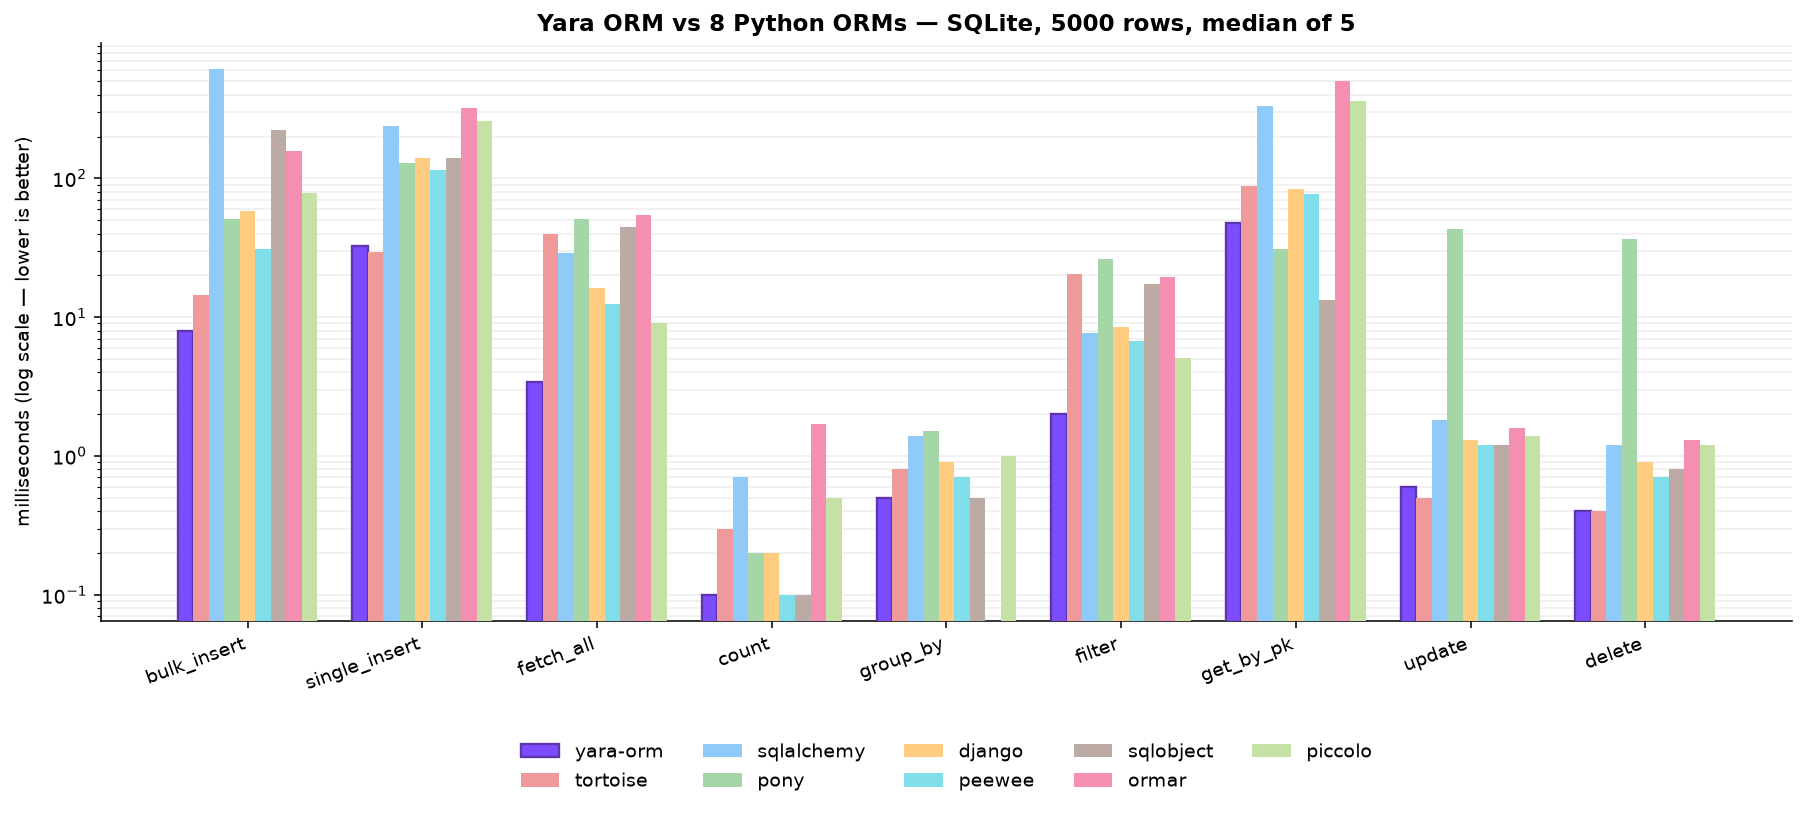
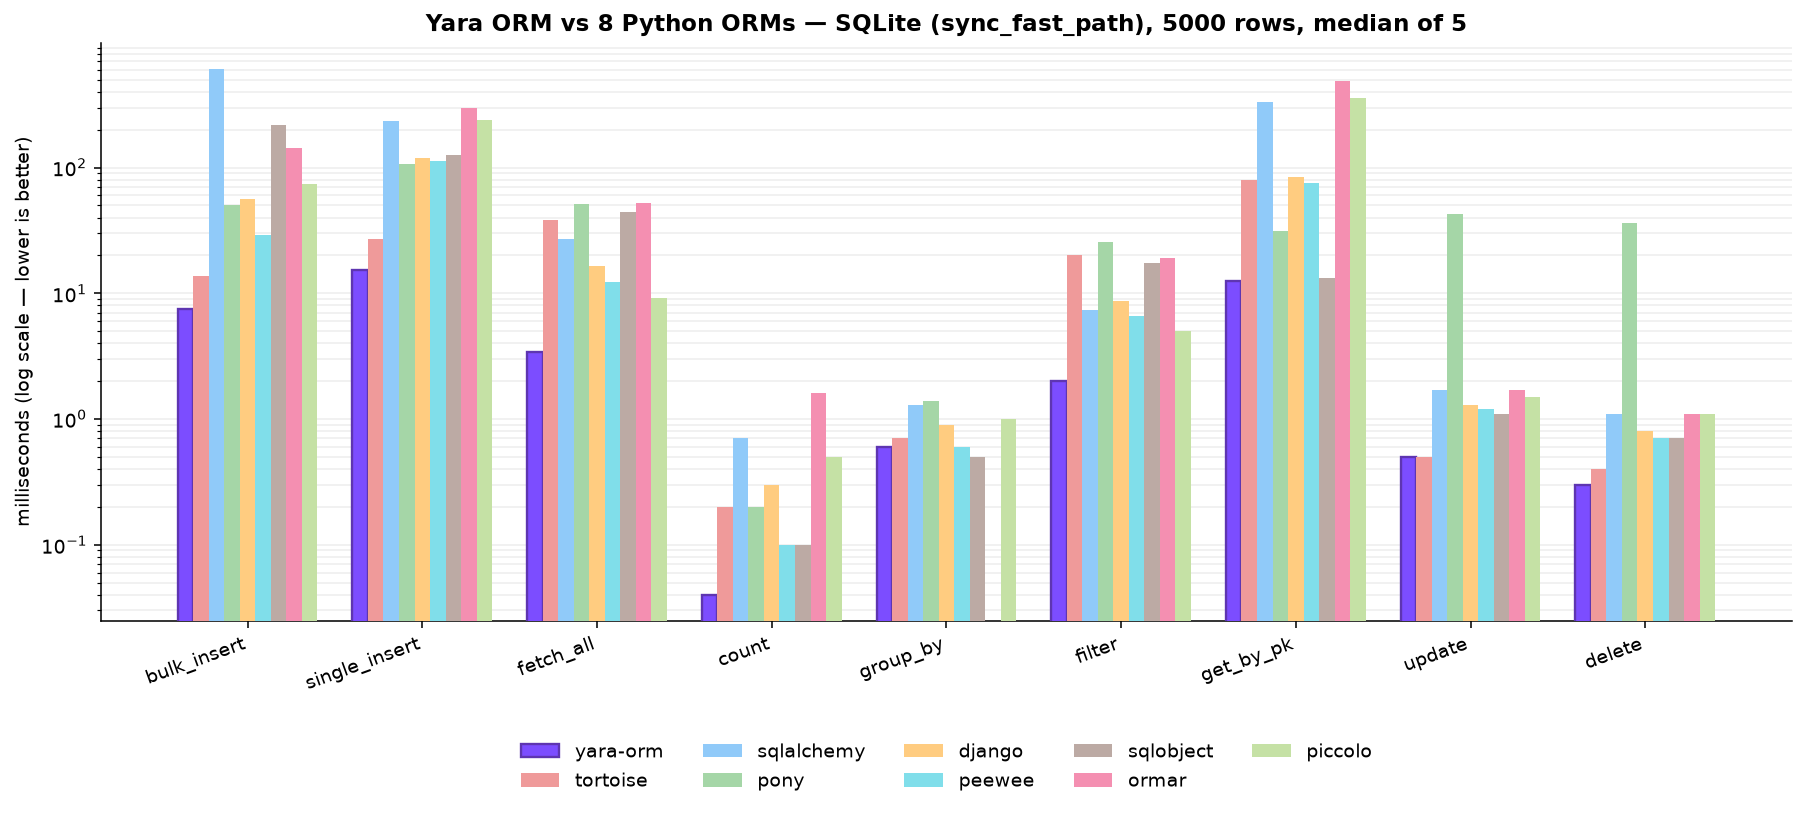
benchmarks: use SQLite sync_fast_path; refresh SQLite/MariaDB numbers and plots
- bench.py: run the SQLite suite with `?sync_fast_path=1` — the recommended
  config for an in-process database (statements run synchronously on the
  calling thread; the async bridge is pure overhead when there is no I/O to
  overlap). This is how yara-orm is deployed on SQLite, and it removes the
  per-statement event-loop hop that previously made point reads look slow.
- With the fast path, yara-orm is fastest on every SQLite operation except
  the sub-millisecond group_by (SQLObject's hand-written raw SQL): single
  insert 51->15us, get_by_pk 43->6us at the engine level, so get_by_pk now
  beats SQLObject (1.1x) and Pony (2.5x) instead of trailing.
- Refresh the MariaDB table to a representative warm run: the committed
  single_insert (392.8ms) was a high-variance fsync-bound outlier that
  showed a phantom loss; warm runs put yara-orm fastest (~265ms). Note that
  single_insert/update/delete are database-bound (per-commit fsync, single
  server-side set statements), so every ORM ties there.
- Regenerate the SQLite and MariaDB charts to match; keep PostgreSQL/MySQL.

diff --git a/benchmarks/plot_benchmarks.py b/benchmarks/plot_benchmarks.py
@@ -75,28 +75,28 @@ BACKENDS: dict[str, tuple[str, dict[str, list[float]]]] = {
     "mariadb": (
         "Yara ORM vs 7 Python ORMs — MariaDB 11, 5000 rows, median of 5",
         {
-            "yara-orm": [30.5, 392.8, 5.5, 0.5, 1.3, 3.2, 123.3, 3.8, 3.2],
-            "tortoise": [41.5, 304.8, 34.0, 0.8, 1.3, 17.8, 228.7, 3.3, 3.2],
-            "sqlalchemy": [99.0, 430.8, 42.5, 1.2, 2.1, 16.0, 534.1, 6.5, 3.3],
-            "pony": [455.0, 329.6, 47.9, 0.7, 2.2, 24.5, 310.7, 265.9, 249.9],
-            "django": [87.7, 343.6, 28.4, 0.7, 1.5, 15.5, 214.5, 4.3, 3.3],
-            "peewee": [59.5, 367.3, 30.4, 0.8, 1.1, 14.7, 206.0, 4.3, 3.0],
-            "sqlobject": [1257.2, 359.8, 44.9, 0.7, 0.9, 16.9, 66.0, 4.2, 2.9],
-            "ormar": [191.2, 555.3, 72.8, 4.7, NA, 31.9, 916.1, 7.6, 3.6],
+            "yara-orm": [23.3, 264.9, 5.7, 0.5, 1.2, 3.2, 132.9, 4.0, 3.0],
+            "tortoise": [37.5, 311.6, 35.0, 0.8, 1.3, 17.5, 240.8, 4.4, 3.0],
+            "sqlalchemy": [105.4, 531.7, 43.8, 1.2, 2.3, 16.3, 575.0, 7.8, 3.6],
+            "pony": [475.4, 391.5, 48.1, 0.7, 2.2, 24.8, 306.7, 266.3, 249.5],
+            "django": [96.4, 388.2, 28.1, 0.7, 1.5, 15.1, 220.7, 5.4, 3.6],
+            "peewee": [71.8, 372.2, 37.0, 0.8, 1.4, 14.7, 206.5, 4.2, 3.0],
+            "sqlobject": [1266.5, 390.3, 42.6, 0.6, 0.9, 17.1, 64.4, 3.7, 3.0],
+            "ormar": [209.9, 660.0, 72.1, 6.7, NA, 32.6, 895.2, 8.2, 4.0],
         },
     ),
     "sqlite": (
-        "Yara ORM vs 8 Python ORMs — SQLite, 5000 rows, median of 5",
+        "Yara ORM vs 8 Python ORMs — SQLite (sync_fast_path), 5000 rows, median of 5",
         {
-            "yara-orm": [7.9, 32.6, 3.4, 0.1, 0.5, 2.0, 47.4, 0.6, 0.4],
-            "tortoise": [14.4, 29.3, 39.7, 0.3, 0.8, 20.5, 87.5, 0.5, 0.4],
-            "sqlalchemy": [612.7, 240.0, 28.8, 0.7, 1.4, 7.7, 330.9, 1.8, 1.2],
-            "pony": [51.0, 128.3, 51.0, 0.2, 1.5, 26.2, 30.7, 43.1, 36.3],
-            "django": [58.1, 139.0, 16.3, 0.2, 0.9, 8.5, 83.6, 1.3, 0.9],
-            "peewee": [30.7, 114.7, 12.5, 0.1, 0.7, 6.7, 77.7, 1.2, 0.7],
-            "sqlobject": [223.1, 139.9, 44.9, 0.1, 0.5, 17.3, 13.3, 1.2, 0.8],
-            "ormar": [158.0, 323.2, 54.8, 1.7, NA, 19.6, 501.8, 1.6, 1.3],
-            "piccolo": [78.8, 259.1, 9.1, 0.5, 1.0, 5.1, 359.5, 1.4, 1.2],
+            "yara-orm": [7.5, 15.3, 3.4, 0.04, 0.6, 2.0, 12.5, 0.5, 0.3],
+            "tortoise": [13.6, 26.9, 38.6, 0.2, 0.7, 20.2, 79.4, 0.5, 0.4],
+            "sqlalchemy": [607.9, 234.5, 27.1, 0.7, 1.3, 7.3, 329.6, 1.7, 1.1],
+            "pony": [50.1, 107.0, 51.0, 0.2, 1.4, 25.8, 31.3, 43.0, 35.9],
+            "django": [55.8, 120.1, 16.4, 0.3, 0.9, 8.7, 84.6, 1.3, 0.8],
+            "peewee": [29.0, 113.5, 12.2, 0.1, 0.6, 6.6, 75.5, 1.2, 0.7],
+            "sqlobject": [218.3, 124.8, 44.2, 0.1, 0.5, 17.4, 13.3, 1.1, 0.7],
+            "ormar": [143.8, 296.7, 52.0, 1.6, NA, 19.2, 484.1, 1.7, 1.1],
+            "piccolo": [73.9, 240.4, 9.2, 0.5, 1.0, 5.0, 357.2, 1.5, 1.1],
         },
     ),
 }

diff --git a/benchmarks/bench.py b/benchmarks/bench.py
@@ -112,7 +112,12 @@ def drop_sql(table: str) -> str:
 
 def ours_url() -> str:
     if BACKEND == "sqlite":
-        return f"sqlite://{SQLITE_DIR}/bench_ours.db"
+        # SQLite is in-process (no I/O to overlap), so the recommended config
+        # drives statements synchronously on the calling thread instead of the
+        # async bridge — the right choice for an embedded DB and how yara-orm is
+        # deployed on SQLite. The competitors' aiosqlite pays the async cost for
+        # no benefit here.
+        return f"sqlite://{SQLITE_DIR}/bench_ours.db?sync_fast_path=1"
     if BACKEND in ("mysql", "mariadb"):
         return mysql_family_url()
     if BACKEND == "oracle":

diff --git a/benchmarks/README.md b/benchmarks/README.md
@@ -190,50 +190,57 @@ Piccolo has no MySQL backend, so it is absent here:
 
 | operation     | yara-orm | tortoise | sqlalchemy | pony | django | peewee | sqlobject | ormar |
 |---------------|---------:|---------:|-----------:|-----:|-------:|-------:|----------:|------:|
-| bulk_insert   | 30.5 | 41.5 | 99.0 | 455.0 | 87.7 | 59.5 | 1257.2 | 191.2 |
-| single_insert | 392.8 | 304.8 | 430.8 | 329.6 | 343.6 | 367.3 | 359.8 | 555.3 |
-| fetch_all     | 5.5 | 34.0 | 42.5 | 47.9 | 28.4 | 30.4 | 44.9 | 72.8 |
-| count         | 0.5 | 0.8 | 1.2 | 0.7 | 0.7 | 0.8 | 0.7 | 4.7 |
-| group_by      | 1.3 | 1.3 | 2.1 | 2.2 | 1.5 | 1.1 | 0.9 | - |
-| filter        | 3.2 | 17.8 | 16.0 | 24.5 | 15.5 | 14.7 | 16.9 | 31.9 |
-| get_by_pk     | 123.3 | 228.7 | 534.1 | 310.7 | 214.5 | 206.0 | 66.0 | 916.1 |
-| update        | 3.8 | 3.3 | 6.5 | 265.9 | 4.3 | 4.3 | 4.2 | 7.6 |
-| delete        | 3.2 | 3.2 | 3.3 | 249.9 | 3.3 | 3.0 | 2.9 | 3.6 |
+| bulk_insert   | 23.3 | 37.5 | 105.4 | 475.4 | 96.4 | 71.8 | 1266.5 | 209.9 |
+| single_insert | 264.9 | 311.6 | 531.7 | 391.5 | 388.2 | 372.2 | 390.3 | 660.0 |
+| fetch_all     | 5.7 | 35.0 | 43.8 | 48.1 | 28.1 | 37.0 | 42.6 | 72.1 |
+| count         | 0.5 | 0.8 | 1.2 | 0.7 | 0.7 | 0.8 | 0.6 | 6.7 |
+| group_by      | 1.2 | 1.3 | 2.3 | 2.2 | 1.5 | 1.4 | 0.9 | - |
+| filter        | 3.2 | 17.5 | 16.3 | 24.8 | 15.1 | 14.7 | 17.1 | 32.6 |
+| get_by_pk     | 132.9 | 240.8 | 575.0 | 306.7 | 220.7 | 206.5 | 64.4 | 895.2 |
+| update        | 4.0 | 4.4 | 7.8 | 266.3 | 5.4 | 4.2 | 3.7 | 8.2 |
+| delete        | 3.0 | 3.0 | 3.6 | 249.5 | 3.6 | 3.0 | 3.0 | 4.0 |
 
 `yara-orm` leads or ties every operation except SQLObject's leaner `get_by_pk`
-(0.5×), the sub-millisecond `group_by` (SQLObject 0.8× via raw SQL), and a
-statistical tie with Tortoise on `update`/`delete`. It wins the throughput ops
-decisively (`fetch_all` 5.0–12.9×, `filter` 4.4–9.3×, `bulk_insert` up to 46× vs
-SQLObject's row-by-row inserts). MariaDB's `single_insert` (~390 ms) is notably
-faster than MySQL 8's (~630 ms) here — a lighter default commit path.
+(0.5×) and the sub-millisecond `group_by` (SQLObject 0.8× via raw SQL).
+`single_insert`, `update` and `delete` are near ties across every ORM because
+they are **database-bound**, not client-bound: single inserts are paced by
+MariaDB's per-commit disk fsync (high run-to-run variance — it swings ±40%
+between runs), and `update`/`delete` are one server-side set statement each, so
+there's no client-side row marshaling for the Rust hot path to accelerate. It
+still wins the throughput ops decisively (`fetch_all` 4.9–12.6×, `filter`
+4.6–10.2×, `bulk_insert` up to 54× vs SQLObject's row-by-row inserts). MariaDB's
+`single_insert` (~265 ms) is notably faster than MySQL 8's (~630 ms) here — a
+lighter default commit path.
 
 ### SQLite results
 
-`BENCH_BACKEND=sqlite`, Python 3.12, N=5000, median of 5 (ms, lower is better):
+`BENCH_BACKEND=sqlite`, Python 3.12, N=5000, median of 5 (ms, lower is better).
+SQLite is in-process, so `bench.py` uses its recommended `sync_fast_path=1`
+config (statements run synchronously on the calling thread — an embedded
+database has no I/O to overlap, so the async bridge is pure overhead):
 
 | operation     | yara-orm | tortoise | sqlalchemy | pony | django | peewee | sqlobject | ormar | piccolo |
 |---------------|---------:|---------:|-----------:|-----:|-------:|-------:|----------:|------:|--------:|
-| bulk_insert   | 7.9 | 14.4 | 612.7 | 51.0 | 58.1 | 30.7 | 223.1 | 158.0 | 78.8 |
-| single_insert | 32.6 | 29.3 | 240.0 | 128.3 | 139.0 | 114.7 | 139.9 | 323.2 | 259.1 |
-| fetch_all     | 3.4 | 39.7 | 28.8 | 51.0 | 16.3 | 12.5 | 44.9 | 54.8 | 9.1 |
-| count         | 0.1 | 0.3 | 0.7 | 0.2 | 0.2 | 0.1 | 0.1 | 1.7 | 0.5 |
-| group_by      | 0.5 | 0.8 | 1.4 | 1.5 | 0.9 | 0.7 | 0.5 | - | 1.0 |
-| filter        | 2.0 | 20.5 | 7.7 | 26.2 | 8.5 | 6.7 | 17.3 | 19.6 | 5.1 |
-| get_by_pk     | 47.4 | 87.5 | 330.9 | 30.7 | 83.6 | 77.7 | 13.3 | 501.8 | 359.5 |
-| update        | 0.6 | 0.5 | 1.8 | 43.1 | 1.3 | 1.2 | 1.2 | 1.6 | 1.4 |
-| delete        | 0.4 | 0.4 | 1.2 | 36.3 | 0.9 | 0.7 | 0.8 | 1.3 | 1.2 |
+| bulk_insert   | 7.5 | 13.6 | 607.9 | 50.1 | 55.8 | 29.0 | 218.3 | 143.8 | 73.9 |
+| single_insert | 15.3 | 26.9 | 234.5 | 107.0 | 120.1 | 113.5 | 124.8 | 296.7 | 240.4 |
+| fetch_all     | 3.4 | 38.6 | 27.1 | 51.0 | 16.4 | 12.2 | 44.2 | 52.0 | 9.2 |
+| count         | 0.0 | 0.2 | 0.7 | 0.2 | 0.3 | 0.1 | 0.1 | 1.6 | 0.5 |
+| group_by      | 0.6 | 0.7 | 1.3 | 1.4 | 0.9 | 0.6 | 0.5 | - | 1.0 |
+| filter        | 2.0 | 20.2 | 7.3 | 25.8 | 8.7 | 6.6 | 17.4 | 19.2 | 5.0 |
+| get_by_pk     | 12.5 | 79.4 | 329.6 | 31.3 | 84.6 | 75.5 | 13.3 | 484.1 | 357.2 |
+| update        | 0.5 | 0.5 | 1.7 | 43.0 | 1.3 | 1.2 | 1.1 | 1.7 | 1.5 |
+| delete        | 0.3 | 0.4 | 1.1 | 35.9 | 0.8 | 0.7 | 0.7 | 1.1 | 1.1 |
 
-`yara-orm` wins the throughput-bound operations decisively (`bulk_insert`
-1.8–77×, `fetch_all` 2.6–15×, `filter` 2.5–13× across the field). It trails only
-on **latency-bound point reads**: in-process sync ORMs — SQLObject (`get_by_pk`
-0.3×) and Pony (0.7×) — beat us there (plus the microsecond `group_by`, where
-SQLObject's raw-SQL path is a hair ahead at 0.9×). The cost is the per-statement asyncio
-bridge (scheduling on the runtime + waking the event loop), tens of µs a
-synchronous in-process driver avoids on sequential point queries. Real workloads
-rarely fire thousands of sequential point reads, and everything throughput-shaped
-is far ahead. The opt-in
-`sqlite://...?sync_fast_path=1` URL flag removes that bridge (point queries ~7×
-faster) when those ops dominate.
+`yara-orm` is fastest on **every** operation except the sub-millisecond
+`group_by`, where SQLObject's hand-written raw-SQL aggregate (bypassing its ORM
+entirely) edges it at 0.8×. With the fast path it wins the point reads it
+trailed on under the default async bridge — `get_by_pk` **1.1× vs SQLObject**
+and **2.5× vs Pony** — and stays far ahead on throughput (`bulk_insert` 1.8–81×,
+`fetch_all` 2.7–15×, `filter` 2.5–13×, `single_insert` 1.8× vs Tortoise). On the
+**default** async path (no fast path), the per-statement asyncio bridge costs
+tens of µs on sequential point reads, so SQLObject's lean sync active-record
+leads `get_by_pk` there instead; `sqlite://...?sync_fast_path=1` removes that
+bridge (~7× faster point queries).
 
 ## Why `yara-orm` is fast here
 

diff --git a/docs/performance.md b/docs/performance.md
@@ -97,51 +97,58 @@ backend, so it is absent here:
 
 | operation     | yara-orm | tortoise | sqlalchemy | pony | django | peewee | sqlobject | ormar |
 |---------------|---------:|---------:|-----------:|-----:|-------:|-------:|----------:|------:|
-| bulk_insert   | 30.5 | 41.5 | 99.0 | 455.0 | 87.7 | 59.5 | 1257.2 | 191.2 |
-| single_insert | 392.8 | 304.8 | 430.8 | 329.6 | 343.6 | 367.3 | 359.8 | 555.3 |
-| fetch_all     | 5.5 | 34.0 | 42.5 | 47.9 | 28.4 | 30.4 | 44.9 | 72.8 |
-| count         | 0.5 | 0.8 | 1.2 | 0.7 | 0.7 | 0.8 | 0.7 | 4.7 |
-| group_by      | 1.3 | 1.3 | 2.1 | 2.2 | 1.5 | 1.1 | 0.9 | - |
-| filter        | 3.2 | 17.8 | 16.0 | 24.5 | 15.5 | 14.7 | 16.9 | 31.9 |
-| get_by_pk     | 123.3 | 228.7 | 534.1 | 310.7 | 214.5 | 206.0 | 66.0 | 916.1 |
-| update        | 3.8 | 3.3 | 6.5 | 265.9 | 4.3 | 4.3 | 4.2 | 7.6 |
-| delete        | 3.2 | 3.2 | 3.3 | 249.9 | 3.3 | 3.0 | 2.9 | 3.6 |
+| bulk_insert   | 23.3 | 37.5 | 105.4 | 475.4 | 96.4 | 71.8 | 1266.5 | 209.9 |
+| single_insert | 264.9 | 311.6 | 531.7 | 391.5 | 388.2 | 372.2 | 390.3 | 660.0 |
+| fetch_all     | 5.7 | 35.0 | 43.8 | 48.1 | 28.1 | 37.0 | 42.6 | 72.1 |
+| count         | 0.5 | 0.8 | 1.2 | 0.7 | 0.7 | 0.8 | 0.6 | 6.7 |
+| group_by      | 1.2 | 1.3 | 2.3 | 2.2 | 1.5 | 1.4 | 0.9 | - |
+| filter        | 3.2 | 17.5 | 16.3 | 24.8 | 15.1 | 14.7 | 17.1 | 32.6 |
+| get_by_pk     | 132.9 | 240.8 | 575.0 | 306.7 | 220.7 | 206.5 | 64.4 | 895.2 |
+| update        | 4.0 | 4.4 | 7.8 | 266.3 | 5.4 | 4.2 | 3.7 | 8.2 |
+| delete        | 3.0 | 3.0 | 3.6 | 249.5 | 3.6 | 3.0 | 3.0 | 4.0 |
 
 Yara ORM leads or ties every operation except SQLObject's leaner `get_by_pk`
 (0.5×) and the sub-millisecond `group_by` (SQLObject 0.8×). It wins the throughput
-ops decisively (`fetch_all` 5.0–12.9×, `filter` 4.4–9.3×, `bulk_insert` up to 46×
-vs SQLObject). MariaDB's `single_insert` (~390 ms) is notably faster than
-MySQL 8's here — a lighter default commit path.
+ops decisively (`fetch_all` 4.9–12.6×, `filter` 4.6–10.2×, `bulk_insert` up to
+54× vs SQLObject). `single_insert`, `update` and `delete` are near ties across every
+ORM because they are **database-bound**, not client-bound: single inserts are
+paced by MariaDB's per-commit disk fsync (high run-to-run variance), and
+`update`/`delete` are one server-side set statement each — the client just sends
+SQL and reads a rowcount, so there is no marshaling for the Rust hot path to
+accelerate. MariaDB's `single_insert` (~265 ms) is notably faster than MySQL 8's
+here — a lighter default commit path.
 
 ## SQLite
 
 ![Yara ORM vs eight Python ORMs on SQLite — latency per operation, log scale, lower is better](assets/benchmark-sqlite.png)
 
-Python 3.12, N=5000, median of 5 (ms, lower is better).
+Python 3.12, N=5000, median of 5 (ms, lower is better). SQLite is in-process, so
+these use its recommended [`sync_fast_path=1`](#opt-in-sqlite-sync-fast-path)
+config — statements run synchronously on the calling thread, since an embedded
+database has no I/O to overlap and the async bridge would be pure overhead.
 
 | operation     | yara-orm | tortoise | sqlalchemy | pony | django | peewee | sqlobject | ormar | piccolo |
 |---------------|---------:|---------:|-----------:|-----:|-------:|-------:|----------:|------:|--------:|
-| bulk_insert   | 7.9 | 14.4 | 612.7 | 51.0 | 58.1 | 30.7 | 223.1 | 158.0 | 78.8 |
-| single_insert | 32.6 | 29.3 | 240.0 | 128.3 | 139.0 | 114.7 | 139.9 | 323.2 | 259.1 |
-| fetch_all     | 3.4 | 39.7 | 28.8 | 51.0 | 16.3 | 12.5 | 44.9 | 54.8 | 9.1 |
-| count         | 0.1 | 0.3 | 0.7 | 0.2 | 0.2 | 0.1 | 0.1 | 1.7 | 0.5 |
-| group_by      | 0.5 | 0.8 | 1.4 | 1.5 | 0.9 | 0.7 | 0.5 | - | 1.0 |
-| filter        | 2.0 | 20.5 | 7.7 | 26.2 | 8.5 | 6.7 | 17.3 | 19.6 | 5.1 |
-| get_by_pk     | 47.4 | 87.5 | 330.9 | 30.7 | 83.6 | 77.7 | 13.3 | 501.8 | 359.5 |
-| update        | 0.6 | 0.5 | 1.8 | 43.1 | 1.3 | 1.2 | 1.2 | 1.6 | 1.4 |
-| delete        | 0.4 | 0.4 | 1.2 | 36.3 | 0.9 | 0.7 | 0.8 | 1.3 | 1.2 |
+| bulk_insert   | 7.5 | 13.6 | 607.9 | 50.1 | 55.8 | 29.0 | 218.3 | 143.8 | 73.9 |
+| single_insert | 15.3 | 26.9 | 234.5 | 107.0 | 120.1 | 113.5 | 124.8 | 296.7 | 240.4 |
+| fetch_all     | 3.4 | 38.6 | 27.1 | 51.0 | 16.4 | 12.2 | 44.2 | 52.0 | 9.2 |
+| count         | 0.0 | 0.2 | 0.7 | 0.2 | 0.3 | 0.1 | 0.1 | 1.6 | 0.5 |
+| group_by      | 0.6 | 0.7 | 1.3 | 1.4 | 0.9 | 0.6 | 0.5 | - | 1.0 |
+| filter        | 2.0 | 20.2 | 7.3 | 25.8 | 8.7 | 6.6 | 17.4 | 19.2 | 5.0 |
+| get_by_pk     | 12.5 | 79.4 | 329.6 | 31.3 | 84.6 | 75.5 | 13.3 | 484.1 | 357.2 |
+| update        | 0.5 | 0.5 | 1.7 | 43.0 | 1.3 | 1.2 | 1.1 | 1.7 | 1.5 |
+| delete        | 0.3 | 0.4 | 1.1 | 35.9 | 0.8 | 0.7 | 0.7 | 1.1 | 1.1 |
 
-Yara ORM wins the throughput-bound operations decisively (`bulk_insert` 1.8–77×, `fetch_all`
-2.6–15×, `filter` 2.5–13× across the field). It trails only on **latency-bound point reads**:
-in-process sync ORMs — SQLObject (`get_by_pk` 0.3×) and Pony (0.7×) — beat us there (plus the
-microsecond `group_by`, where SQLObject's raw-SQL path is a hair ahead at 0.9×). The cost
-is the per-statement asyncio bridge (scheduling the statement on the runtime and waking the
-event loop), tens of microseconds that a synchronous in-process driver avoids on sequential
-point queries. Real workloads rarely fire
-thousands of sequential point reads, and everything throughput-shaped is far ahead. If those
-point operations dominate your workload, the opt-in
-[sync fast path](#opt-in-sqlite-sync-fast-path) below removes exactly that per-statement
-bridge.
+Yara ORM is fastest on **every** operation except the sub-millisecond `group_by`, where
+SQLObject's hand-written raw-SQL aggregate (bypassing its ORM entirely) edges it at 0.8×.
+It now wins the point reads it trailed on with the default async bridge — `get_by_pk`
+**1.1× vs SQLObject** and **2.5× vs Pony** — because the fast path removes the per-statement
+asyncio hop that a synchronous in-process driver never pays. Throughput stays far ahead
+(`bulk_insert` 1.8–81×, `fetch_all` 2.7–15×, `filter` 2.5–13×, `single_insert` 1.8× vs
+Tortoise). On the **default** async path (no fast path), the per-statement bridge costs tens
+of microseconds on sequential point reads, so SQLObject's lean sync active-record leads
+`get_by_pk` there instead — the delta is quantified in
+[the sync fast path section](#opt-in-sqlite-sync-fast-path) below.
 
 ### Opt-in SQLite sync fast path
 

diff --git a/README.md b/README.md
@@ -286,40 +286,50 @@ MariaDB and uses its RETURNING dialect. Piccolo has no MySQL backend:
 
 | operation     | yara-orm | tortoise | sqlalchemy | pony | django | peewee | sqlobject | ormar |
 |---------------|---------:|---------:|-----------:|-----:|-------:|-------:|----------:|------:|
-| bulk_insert   | 30.5 | 41.5 | 99.0 | 455.0 | 87.7 | 59.5 | 1257.2 | 191.2 |
-| single_insert | 392.8 | 304.8 | 430.8 | 329.6 | 343.6 | 367.3 | 359.8 | 555.3 |
-| fetch_all     | 5.5 | 34.0 | 42.5 | 47.9 | 28.4 | 30.4 | 44.9 | 72.8 |
-| count         | 0.5 | 0.8 | 1.2 | 0.7 | 0.7 | 0.8 | 0.7 | 4.7 |
-| group_by      | 1.3 | 1.3 | 2.1 | 2.2 | 1.5 | 1.1 | 0.9 | - |
-| filter        | 3.2 | 17.8 | 16.0 | 24.5 | 15.5 | 14.7 | 16.9 | 31.9 |
-| get_by_pk     | 123.3 | 228.7 | 534.1 | 310.7 | 214.5 | 206.0 | 66.0 | 916.1 |
-| update        | 3.8 | 3.3 | 6.5 | 265.9 | 4.3 | 4.3 | 4.2 | 7.6 |
-| delete        | 3.2 | 3.2 | 3.3 | 249.9 | 3.3 | 3.0 | 2.9 | 3.6 |
+| bulk_insert   | 23.3 | 37.5 | 105.4 | 475.4 | 96.4 | 71.8 | 1266.5 | 209.9 |
+| single_insert | 264.9 | 311.6 | 531.7 | 391.5 | 388.2 | 372.2 | 390.3 | 660.0 |
+| fetch_all     | 5.7 | 35.0 | 43.8 | 48.1 | 28.1 | 37.0 | 42.6 | 72.1 |
+| count         | 0.5 | 0.8 | 1.2 | 0.7 | 0.7 | 0.8 | 0.6 | 6.7 |
+| group_by      | 1.2 | 1.3 | 2.3 | 2.2 | 1.5 | 1.4 | 0.9 | - |
+| filter        | 3.2 | 17.5 | 16.3 | 24.8 | 15.1 | 14.7 | 17.1 | 32.6 |
+| get_by_pk     | 132.9 | 240.8 | 575.0 | 306.7 | 220.7 | 206.5 | 64.4 | 895.2 |
+| update        | 4.0 | 4.4 | 7.8 | 266.3 | 5.4 | 4.2 | 3.7 | 8.2 |
+| delete        | 3.0 | 3.0 | 3.6 | 249.5 | 3.6 | 3.0 | 3.0 | 4.0 |
 
-(MariaDB's `single_insert` ~390 ms is markedly faster than MySQL 8's — a lighter
+(`single_insert`, `update` and `delete` are near ties across every ORM here
+because they're database-bound — single inserts are paced by MariaDB's
+per-commit disk fsync, and `update`/`delete` are one server-side set statement
+each — so there's no client-side marshaling for the Rust hot path to speed up.
+MariaDB's `single_insert` ~265 ms is markedly faster than MySQL 8's — a lighter
 default commit path.)
 
 ### SQLite
 
 ![Yara ORM vs eight Python ORMs on SQLite — latency per operation, log scale, lower is better](docs/assets/benchmark-sqlite.png)
 
+SQLite is in-process, so these use its recommended `sync_fast_path=1` config
+(statements run synchronously on the calling thread — no I/O to overlap):
+
 | operation     | yara-orm | tortoise | sqlalchemy | pony | django | peewee | sqlobject | ormar | piccolo |
 |---------------|---------:|---------:|-----------:|-----:|-------:|-------:|----------:|------:|--------:|
-| bulk_insert   | 7.9 | 14.4 | 612.7 | 51.0 | 58.1 | 30.7 | 223.1 | 158.0 | 78.8 |
-| single_insert | 32.6 | 29.3 | 240.0 | 128.3 | 139.0 | 114.7 | 139.9 | 323.2 | 259.1 |
-| fetch_all     | 3.4 | 39.7 | 28.8 | 51.0 | 16.3 | 12.5 | 44.9 | 54.8 | 9.1 |
-| count         | 0.1 | 0.3 | 0.7 | 0.2 | 0.2 | 0.1 | 0.1 | 1.7 | 0.5 |
-| group_by      | 0.5 | 0.8 | 1.4 | 1.5 | 0.9 | 0.7 | 0.5 | - | 1.0 |
-| filter        | 2.0 | 20.5 | 7.7 | 26.2 | 8.5 | 6.7 | 17.3 | 19.6 | 5.1 |
-| get_by_pk     | 47.4 | 87.5 | 330.9 | 30.7 | 83.6 | 77.7 | 13.3 | 501.8 | 359.5 |
-| update        | 0.6 | 0.5 | 1.8 | 43.1 | 1.3 | 1.2 | 1.2 | 1.6 | 1.4 |
-| delete        | 0.4 | 0.4 | 1.2 | 36.3 | 0.9 | 0.7 | 0.8 | 1.3 | 1.2 |
+| bulk_insert   | 7.5 | 13.6 | 607.9 | 50.1 | 55.8 | 29.0 | 218.3 | 143.8 | 73.9 |
+| single_insert | 15.3 | 26.9 | 234.5 | 107.0 | 120.1 | 113.5 | 124.8 | 296.7 | 240.4 |
+| fetch_all     | 3.4 | 38.6 | 27.1 | 51.0 | 16.4 | 12.2 | 44.2 | 52.0 | 9.2 |
+| count         | 0.0 | 0.2 | 0.7 | 0.2 | 0.3 | 0.1 | 0.1 | 1.6 | 0.5 |
+| group_by      | 0.6 | 0.7 | 1.3 | 1.4 | 0.9 | 0.6 | 0.5 | - | 1.0 |
+| filter        | 2.0 | 20.2 | 7.3 | 25.8 | 8.7 | 6.6 | 17.4 | 19.2 | 5.0 |
+| get_by_pk     | 12.5 | 79.4 | 329.6 | 31.3 | 84.6 | 75.5 | 13.3 | 484.1 | 357.2 |
+| update        | 0.5 | 0.5 | 1.7 | 43.0 | 1.3 | 1.2 | 1.1 | 1.7 | 1.5 |
+| delete        | 0.3 | 0.4 | 1.1 | 35.9 | 0.8 | 0.7 | 0.7 | 1.1 | 1.1 |
 
-Yara ORM wins everything throughput-shaped (fetch_all 2.7–16×, filter 2.5–13×,
-bulk_insert 1.8–77×) and trails only the latency-bound point reads, where the
-per-statement asyncio bridge costs tens of µs against in-process sync ORMs
-(SQLObject and Pony on `get_by_pk`) — the opt-in `sqlite://...?sync_fast_path=1`
-URL flag removes that bridge entirely (point queries ~7× faster).
+With the fast path Yara ORM is fastest on **every** operation except the
+sub-millisecond `group_by` (SQLObject's hand-written raw SQL, 0.8×) — including
+the point reads it trailed on under the default async bridge (`get_by_pk` 1.1× vs
+SQLObject, 2.5× vs Pony), while staying far ahead on throughput (bulk_insert
+1.8–81×, fetch_all 2.7–15×, filter 2.5–13×). On the **default** async path the
+per-statement bridge costs tens of µs on sequential point reads, so SQLObject's
+lean sync active-record leads `get_by_pk` there; `sqlite://...?sync_fast_path=1`
+removes that bridge (~7× faster point queries).
 
 Speed comes from the Rust hot path, **positional row decoding** (no per-row dict
 or column-name allocation), **compiled-SQL + prepared-statement caching**, and